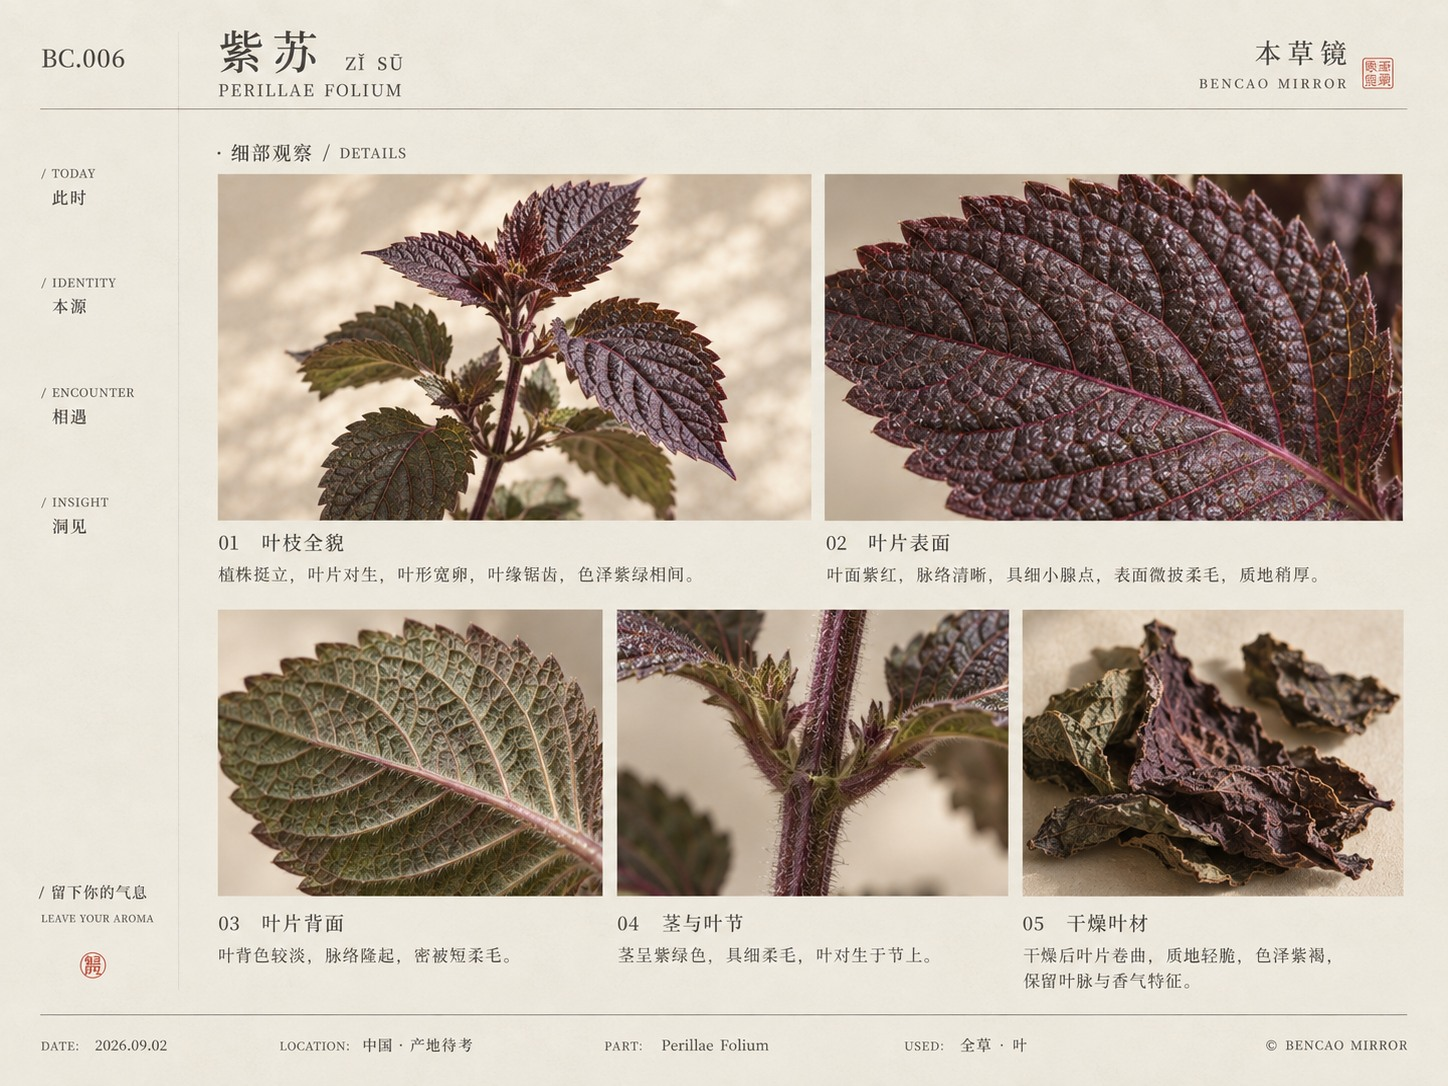
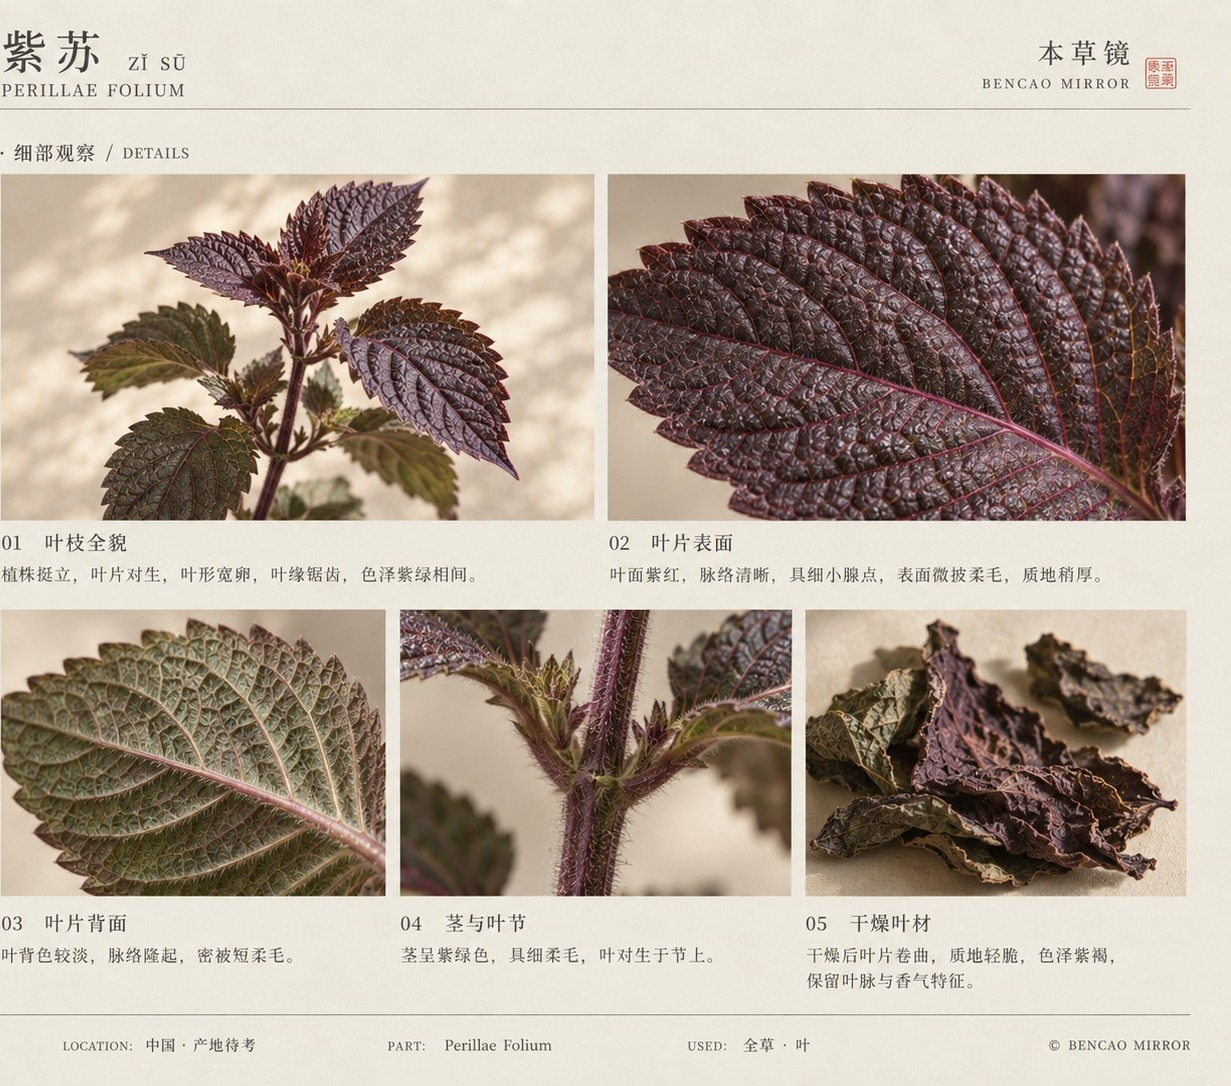
Fix left splice artifact in dried-material images
Remove spliced pale/foreign left strip at seam boundary across 17 dried/
plate/detail images (single-seam crop, content preserved). Cache-bust
changed image URLs with ?v=ls2.

diff --git a/app.js b/app.js
@@ -6,7 +6,7 @@ const FILE_PAGE = name => `https://commons.wikimedia.org/wiki/File:${encodeURICo
 const HERBS = [
   {
     id:'bc001', no:'BC.001', name:'陈皮', pinyin:'CHÉN PÍ', latinDrug:'Citri Reticulatae Pericarpium', plant:'Citrus reticulata Blanco', part:'干燥成熟果皮', color:'#A87546', aromaColors:['#D79A55','#B8743E','#81705C'],
-    hero:'./images/bc001-hero-vf1.webp', origin:'./images/bc001-02-fresh-peel.jpg', material:'./images/bc001-03-dried-material.jpg', plate:'./images/bc001-study-detail-grid-01.jpg', detail1:'./images/bc001-atlas-outer.jpg', detail2:'./images/bc001-atlas-inner.jpg',
+    hero:'./images/bc001-hero-vf1.webp', origin:'./images/bc001-02-fresh-peel.jpg', material:'./images/bc001-03-dried-material.jpg', plate:'./images/bc001-study-detail-grid-01.jpg?v=ls2', detail1:'./images/bc001-atlas-outer.jpg', detail2:'./images/bc001-atlas-inner.jpg?v=ls2',
     heroPos:'56% 48%',
     today:['你可能已经见过它很多次。','今天，认真看一次。'],
     identity:{lead:'它来自成熟柑橘的果皮。',sub:'从果实到干燥后的材料，变化发生在时间里。',originTitle:'从果实开始。',originText:'剥开的果皮有清楚的内外两面。此时，它仍保留新鲜果实的颜色与水分。',materialTitle:'时间参与了形成。',materialText:'水分逐渐离开，果皮变干、卷曲、变轻；颜色、纹理与触感也随之改变。',note:'时间不是唯一的质量标准。品种、原料、加工与储存同样重要。'},
@@ -19,7 +19,7 @@ const HERBS = [
   },
   {
     id:'bc002', no:'BC.002', name:'薄荷', pinyin:'BÒ HÉ', latinDrug:'Menthae Haplocalycis Herba', plant:'Mentha haplocalyx Briq.', part:'干燥地上部分', color:'#71836B', aromaColors:['#75A06F','#84A876','#C7B55C'],
-    hero:'./images/bc002-hero-vf1.webp', origin:'./images/bc002-hero-vf1.webp', material:'./images/bc002-detail-01-vu1.jpg', plate:'./images/bc002-atlas-plate-vu1.jpg', detail1:'./images/bc002-detail-02-vu1.jpg', detail2:'./images/bc002-detail-03-vu1.jpg', atlasImages:[['./images/bc002-detail-01-vu1.jpg','植株全貌','植株挺立 · 叶片对生 · 叶色青绿'],['./images/bc002-detail-02-vu1.jpg','叶片表面','叶面皱缩 · 脉络清晰 · 细小腺点'],['./images/bc002-detail-03-vu1.jpg','叶片背面','叶背较浅 · 脉络凸起 · 细柔毛'],['./images/bc002-detail-04-vu1.jpg','茎与叶节','茎呈四棱 · 具细柔毛 · 叶对生于节上'],['./images/bc002-detail-05-vu1.jpg','花序','轮伞花序顶生 · 花小而密']], heroPos:'50% 45%',
+    hero:'./images/bc002-hero-vf1.webp', origin:'./images/bc002-hero-vf1.webp', material:'./images/bc002-detail-01-vu1.jpg', plate:'./images/bc002-atlas-plate-vu1.jpg?v=ls2', detail1:'./images/bc002-detail-02-vu1.jpg?v=ls2', detail2:'./images/bc002-detail-03-vu1.jpg', atlasImages:[['./images/bc002-detail-01-vu1.jpg','植株全貌','植株挺立 · 叶片对生 · 叶色青绿'],['./images/bc002-detail-02-vu1.jpg?v=ls2','叶片表面','叶面皱缩 · 脉络清晰 · 细小腺点'],['./images/bc002-detail-03-vu1.jpg','叶片背面','叶背较浅 · 脉络凸起 · 细柔毛'],['./images/bc002-detail-04-vu1.jpg','茎与叶节','茎呈四棱 · 具细柔毛 · 叶对生于节上'],['./images/bc002-detail-05-vu1.jpg?v=ls2','花序','轮伞花序顶生 · 花小而密']], heroPos:'50% 45%',
     today:['先不要把它等同于“清凉”。','先看一片叶。'],
     identity:{lead:'它来自一株有四棱茎、对生叶的薄荷。',sub:'被采收、干燥以后，叶、茎与花序一起成为药材的地上部分。',originTitle:'叶与茎先构成它。',originText:'叶片有清楚的脉络和锯齿边缘；茎有明显棱角。新鲜时，绿色与水分让结构显得舒展。',materialTitle:'叶、茎与花序共同构成地上部分。',materialText:'当前 Visual Study 先记录鲜活结构与可见特征；正式公开版再补拍同一摄影体系下的干燥药材整体。',note:'揉动会快速改变薄荷的气息，所以第一次闻之前，先不要揉。'},
     evidence:{mark:'药', title:'Menthae Haplocalycis Herba', lines:['干燥地上部分','辛，凉 · 肺、肝'], note:'传统 / 2025《中国药典》体系'},
@@ -31,7 +31,7 @@ const HERBS = [
   },
   {
     id:'bc003', no:'BC.003', name:'枸杞', pinyin:'GǑU QǏ', latinDrug:'Lycii Fructus', plant:'Lycium barbarum L.', part:'干燥成熟果实', color:'#A55343', aromaColors:['#C96D58','#B65B4B','#9C7659'],
-    hero:'./images/bc003-hero-vf1.webp', origin:'./images/bc003-hero-vf1.webp', material:'./images/bc003-detail-05-vu1.jpg', plate:'./images/bc003-atlas-plate-vu1.jpg', detail1:'./images/bc003-detail-03-vu1.jpg', detail2:'./images/bc003-detail-04-vu1.jpg', atlasImages:[['./images/bc003-detail-01-vu1.jpg','果枝全貌','枝条纤细 · 叶片互生 · 果实椭圆'],['./images/bc003-detail-02-vu1.jpg','叶片表面','叶片狭长 · 叶脉清晰 · 表面具细密纹理'],['./images/bc003-detail-03-vu1.jpg','果实表面','果实椭圆 · 表皮薄而光滑 · 微具纵纹'],['./images/bc003-detail-04-vu1.jpg','果实剖面','果肉柔软多汁 · 内含多枚扁平种子'],['./images/bc003-detail-05-vu1.jpg','干燥材料','干燥后果实皱缩 · 长椭圆形 · 表面纵皱']], heroPos:'50% 48%',
+    hero:'./images/bc003-hero-vf1.webp', origin:'./images/bc003-hero-vf1.webp', material:'./images/bc003-detail-05-vu1.jpg?v=ls2', plate:'./images/bc003-atlas-plate-vu1.jpg?v=ls2', detail1:'./images/bc003-detail-03-vu1.jpg', detail2:'./images/bc003-detail-04-vu1.jpg', atlasImages:[['./images/bc003-detail-01-vu1.jpg','果枝全貌','枝条纤细 · 叶片互生 · 果实椭圆'],['./images/bc003-detail-02-vu1.jpg?v=ls2','叶片表面','叶片狭长 · 叶脉清晰 · 表面具细密纹理'],['./images/bc003-detail-03-vu1.jpg','果实表面','果实椭圆 · 表皮薄而光滑 · 微具纵纹'],['./images/bc003-detail-04-vu1.jpg','果实剖面','果肉柔软多汁 · 内含多枚扁平种子'],['./images/bc003-detail-05-vu1.jpg?v=ls2','干燥材料','干燥后果实皱缩 · 长椭圆形 · 表面纵皱']], heroPos:'50% 48%',
     today:['它常常以一把红色出现。','今天，只看一颗。'],
     identity:{lead:'它来自宁夏枸杞的成熟果实。',sub:'成熟、采收、干燥之后，一颗多汁果实变成皱缩而柔韧的果干材料。',originTitle:'先是一颗成熟果实。',originText:'鲜果呈红色，轮廓饱满。单独看一颗时，果柄端、果尖与细微色差才会出现。',materialTitle:'干燥把水分收进皱纹里。',materialText:'果皮皱缩，体积减小；表面由光滑转为起伏，内部仍可能保留一定柔润感。',note:'枸杞常被当作食物，但本草镜第一版仍不鼓励品尝来源不明的材料。'},
     evidence:{mark:'药', title:'Lycii Fructus', lines:['宁夏枸杞的干燥成熟果实','甘，平 · 肝、肾'], note:'传统 / 2025《中国药典》体系'},
@@ -43,7 +43,7 @@ const HERBS = [
   },
   {
     id:'bc004', no:'BC.004', name:'桂花', pinyin:'GUÌ HUĀ', latinDrug:'Osmanthus fragrans (Thunb.) Lour.', plant:'Osmanthus fragrans (Thunb.) Lour.', part:'花（本草镜体验材料：来源明确的干燥桂花）', color:'#C49A4C', aromaColors:['#D6BA68','#C89E49','#A9845C'],
-    hero:'./images/bc004-hero-vf1.webp', origin:'./images/bc004-hero-vf1.webp', material:'./images/bc004-detail-05-vu1.jpg', plate:'./images/bc004-atlas-plate-vu1.jpg', detail1:'./images/bc004-detail-02-vu1.jpg', detail2:'./images/bc004-detail-03-vu1.jpg', atlasImages:[['./images/bc004-detail-01-vu1.jpg','花枝全貌','花簇生于叶腋 · 花叶相映 · 枝条舒展'],['./images/bc004-detail-02-vu1.jpg','花簇','小花密集成簇 · 花瓣肉质 · 淡黄色'],['./images/bc004-detail-03-vu1.jpg','单花结构','花冠四瓣 · 花瓣厚实 · 中央具短花蕊'],['./images/bc004-detail-04-vu1.jpg','叶片与叶脉','叶片革质 · 表面光滑 · 叶脉清晰'],['./images/bc004-detail-05-vu1.jpg','干燥花材','干燥后呈金黄色 · 花形完整或微卷']], heroPos:'50% 52%',
+    hero:'./images/bc004-hero-vf1.webp', origin:'./images/bc004-hero-vf1.webp', material:'./images/bc004-detail-05-vu1.jpg?v=ls2', plate:'./images/bc004-atlas-plate-vu1.jpg?v=ls2', detail1:'./images/bc004-detail-02-vu1.jpg?v=ls2', detail2:'./images/bc004-detail-03-vu1.jpg', atlasImages:[['./images/bc004-detail-01-vu1.jpg','花枝全貌','花簇生于叶腋 · 花叶相映 · 枝条舒展'],['./images/bc004-detail-02-vu1.jpg?v=ls2','花簇','小花密集成簇 · 花瓣肉质 · 淡黄色'],['./images/bc004-detail-03-vu1.jpg','单花结构','花冠四瓣 · 花瓣厚实 · 中央具短花蕊'],['./images/bc004-detail-04-vu1.jpg','叶片与叶脉','叶片革质 · 表面光滑 · 叶脉清晰'],['./images/bc004-detail-05-vu1.jpg?v=ls2','干燥花材','干燥后呈金黄色 · 花形完整或微卷']], heroPos:'50% 52%',
     today:['它很小，香气却常常先于形状被记住。','今天，先看见它。'],
     identity:{lead:'它来自木犀叶腋里成簇开放的小花。',sub:'花朵只有很小的尺度。干燥之后，颜色、卷曲和碎裂让它变成另一种轻盈材料。',originTitle:'先从叶腋里的花簇开始。',originText:'木犀的花聚在叶腋，花冠可呈黄白、淡黄、黄色或橙红。完整花朵本身很小。',materialTitle:'干燥会放大“轻”和“碎”。',materialText:'花冠收缩、颜色加深，花梗与碎瓣混在一起。少量材料就形成很高的表面积。',note:'桂花在本草镜中按植物与感官材料呈现，不把它标成现行《中国药典》标准药材。'},
     evidence:{mark:'', title:'Osmanthus fragrans (Thunb.) Lour.', lines:['木犀科 · 木犀属','花簇生叶腋 · 花极芳香'], note:'植物学身份记录；这里不使用“药”标签'},
@@ -55,7 +55,7 @@ const HERBS = [
   },
   {
     id:'bc005', no:'BC.005', name:'菊花', pinyin:'JÚ HUĀ', latinDrug:'Chrysanthemi Flos', plant:'Chrysanthemum morifolium Ramat.', part:'干燥头状花序', color:'#9A8B60', aromaColors:['#D3C48E','#B7A66D','#95836B'],
-    hero:'./images/bc005-hero-vf1.webp', origin:'./images/bc005-hero-vf1.webp', material:'./images/bc005-detail-05-vu1.jpg', plate:'./images/bc005-atlas-plate-vu1.jpg', detail1:'./images/bc005-detail-02-vu1.jpg', detail2:'./images/bc005-detail-03-vu1.jpg', atlasImages:[['./images/bc005-detail-01-vu1.jpg','花枝全貌','植株挺立 · 花枝分枝 · 花朵簇生'],['./images/bc005-detail-02-vu1.jpg','花序中心','管状花密集 · 球状排列 · 黄色'],['./images/bc005-detail-03-vu1.jpg','舌状花','舌状花呈长条形 · 边缘微卷 · 质地薄柔'],['./images/bc005-detail-04-vu1.jpg','花叶与花蕾','叶片羽状分裂 · 花蕾外层苞片紧密包裹'],['./images/bc005-detail-05-vu1.jpg','干燥花材','干燥后花形完整 · 瓣片皱缩卷曲 · 质地轻脆']], heroPos:'50% 46%',
+    hero:'./images/bc005-hero-vf1.webp', origin:'./images/bc005-hero-vf1.webp', material:'./images/bc005-detail-05-vu1.jpg?v=ls2', plate:'./images/bc005-atlas-plate-vu1.jpg?v=ls2', detail1:'./images/bc005-detail-02-vu1.jpg?v=ls2', detail2:'./images/bc005-detail-03-vu1.jpg', atlasImages:[['./images/bc005-detail-01-vu1.jpg','花枝全貌','植株挺立 · 花枝分枝 · 花朵簇生'],['./images/bc005-detail-02-vu1.jpg?v=ls2','花序中心','管状花密集 · 球状排列 · 黄色'],['./images/bc005-detail-03-vu1.jpg','舌状花','舌状花呈长条形 · 边缘微卷 · 质地薄柔'],['./images/bc005-detail-04-vu1.jpg','花叶与花蕾','叶片羽状分裂 · 花蕾外层苞片紧密包裹'],['./images/bc005-detail-05-vu1.jpg?v=ls2','干燥花材','干燥后花形完整 · 瓣片皱缩卷曲 · 质地轻脆']], heroPos:'50% 46%',
     today:['“一朵菊花”其实有很多层。','今天，从花心往外看。'],
     identity:{lead:'它来自菊的头状花序。',sub:'盛开时采收，经过不同加工方式后，花序整体成为干燥材料。',originTitle:'它不是单一的一片花瓣。',originText:'外围与中央的花在同一个花序里形成层次；颜色、形态与排列让整朵花有明确中心。',materialTitle:'干燥保留了花序，也改变了支撑。',materialText:'花瓣折缩、花心变得密实或松散，整体变轻、变脆；不同产地和加工方式也会带来外观差异。',note:'菊花药材按产地与加工方法可分多种类型；原型页面不把某一张视觉研究图当作全部菊花。'},
     evidence:{mark:'药', title:'Chrysanthemi Flos', lines:['菊的干燥头状花序','甘、苦，微寒 · 肺、肝'], note:'传统 / 2025《中国药典》体系'},
@@ -67,7 +67,7 @@ const HERBS = [
   },
   {
     id:'bc006', no:'BC.006', name:'紫苏', pinyin:'ZǏ SŪ', latinDrug:'Perillae Folium', plant:'Perilla frutescens (L.) Britt.', part:'干燥叶（或带嫩枝）', color:'#74586C', aromaColors:['#8A687C','#745768','#87735C'],
-    hero:'./images/bc006-hero-vf1.webp', origin:'./images/bc006-hero-vf1.webp', material:'./images/bc006-detail-05-vu1.jpg', plate:'./images/bc006-atlas-plate-vu1.jpg', detail1:'./images/bc006-detail-02-vu1.jpg', detail2:'./images/bc006-detail-03-vu1.jpg', atlasImages:[['./images/bc006-detail-01-vu1.jpg','叶枝全貌','植株挺立 · 叶片对生 · 叶形宽卵 · 叶缘锯齿'],['./images/bc006-detail-02-vu1.jpg','叶片表面','叶面紫红 · 脉络清晰 · 具细小腺点'],['./images/bc006-detail-03-vu1.jpg','叶片背面','叶背色较浅 · 脉络隆起 · 密被短柔毛'],['./images/bc006-detail-04-vu1.jpg','茎与叶节','茎呈紫绿色 · 具细柔毛 · 叶对生于节上'],['./images/bc006-detail-05-vu1.jpg','干燥叶材','干燥后叶片卷曲 · 质地轻脆 · 色泽紫褐']], heroPos:'50% 45%',
+    hero:'./images/bc006-hero-vf1.webp', origin:'./images/bc006-hero-vf1.webp', material:'./images/bc006-detail-05-vu1.jpg?v=ls2', plate:'./images/bc006-atlas-plate-vu1.jpg?v=ls2', detail1:'./images/bc006-detail-02-vu1.jpg?v=ls2', detail2:'./images/bc006-detail-03-vu1.jpg', atlasImages:[['./images/bc006-detail-01-vu1.jpg','叶枝全貌','植株挺立 · 叶片对生 · 叶形宽卵 · 叶缘锯齿'],['./images/bc006-detail-02-vu1.jpg?v=ls2','叶片表面','叶面紫红 · 脉络清晰 · 具细小腺点'],['./images/bc006-detail-03-vu1.jpg','叶片背面','叶背色较浅 · 脉络隆起 · 密被短柔毛'],['./images/bc006-detail-04-vu1.jpg','茎与叶节','茎呈紫绿色 · 具细柔毛 · 叶对生于节上'],['./images/bc006-detail-05-vu1.jpg?v=ls2','干燥叶材','干燥后叶片卷曲 · 质地轻脆 · 色泽紫褐']], heroPos:'50% 45%',
     today:['先别只看它的紫。','沿着叶脉走一次。'],
     identity:{lead:'它来自紫苏的叶，或带嫩枝的叶。',sub:'鲜叶有清楚的锯齿、叶脉和上下表面；干燥后会皱缩卷曲，颜色与脆度一起改变。',originTitle:'一片叶先有方向。',originText:'叶尖、叶基、圆锯齿与中脉共同建立轮廓；不同植株可呈紫色，或上表面偏绿、下表面偏紫。',materialTitle:'干燥把一片展开的叶变成卷曲薄片。',materialText:'叶片失水后容易皱缩、破碎，边缘和叶脉仍是辨认材料状态的重要视觉线索。',note:'当前紫苏 Material Atlas 使用叶片结构视觉研究图作为摄影占位；正式发布前应补拍可核验的干燥紫苏叶材料。'},
     evidence:{mark:'药', title:'Perillae Folium', lines:['干燥叶（或带嫩枝）','辛，温 · 肺、脾'], note:'传统 / 2025《中国药典》体系'},
